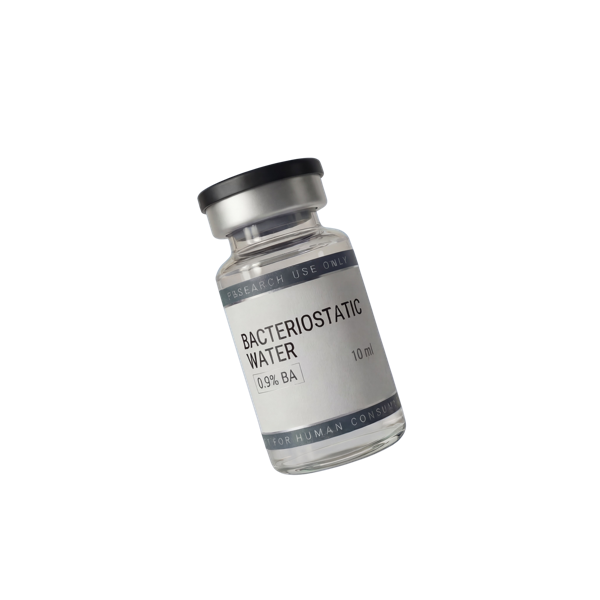
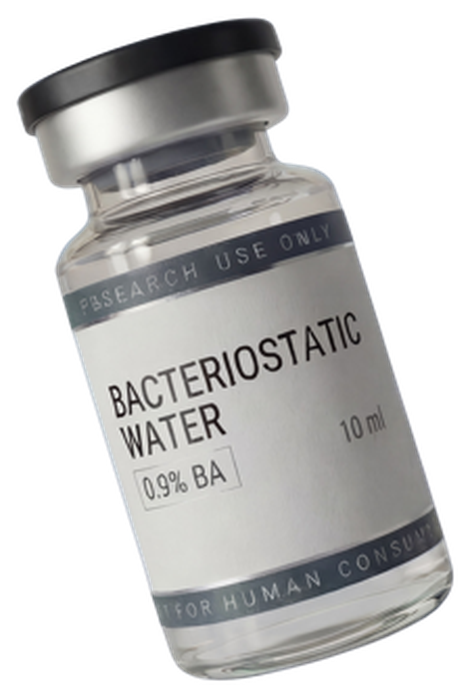
Crop bac water image tight + fill visual panel width for larger display
Image cropped to remove transparent margins (226x335 content area, upscaled to 472x699).
Image now fills the panel width naturally with no max-width cap.

diff --git a/inc/syntra-bac-water-popup.php b/inc/syntra-bac-water-popup.php
@@ -115,13 +115,13 @@ function syntra_bac_water_popup() {
     .bwp-visual {
         background: linear-gradient(150deg, #111e2e 0%, #1F3552 100%);
         display: flex; flex-direction: column; align-items: center; justify-content: center;
-        padding: 40px 20px; gap: 16px; position: relative; flex-shrink: 0;
+        padding: 36px 16px; gap: 12px; position: relative; flex-shrink: 0;
     }
-    @media(min-width:580px){ .bwp-visual { width: 340px; } }
+    @media(min-width:580px){ .bwp-visual { width: 280px; } }
 
     .bwp-glow {
-        position: absolute; width: 200px; height: 200px;
-        background: radial-gradient(circle, rgba(47,183,179,0.22) 0%, transparent 70%);
+        position: absolute; width: 220px; height: 220px;
+        background: radial-gradient(circle, rgba(47,183,179,0.25) 0%, transparent 70%);
         border-radius: 50%; pointer-events: none;
     }
     .bwp-free-tag {
@@ -132,7 +132,7 @@ function syntra_bac_water_popup() {
         padding: 4px 10px; border-radius: 100px;
     }
     .bwp-vial-img {
-        width: 100%; max-width: 300px; height: auto;
+        width: 100%; height: auto; max-width: none;
         object-fit: contain;
         animation: bwpFloat 4s ease-in-out infinite;
         position: relative; z-index: 1;
